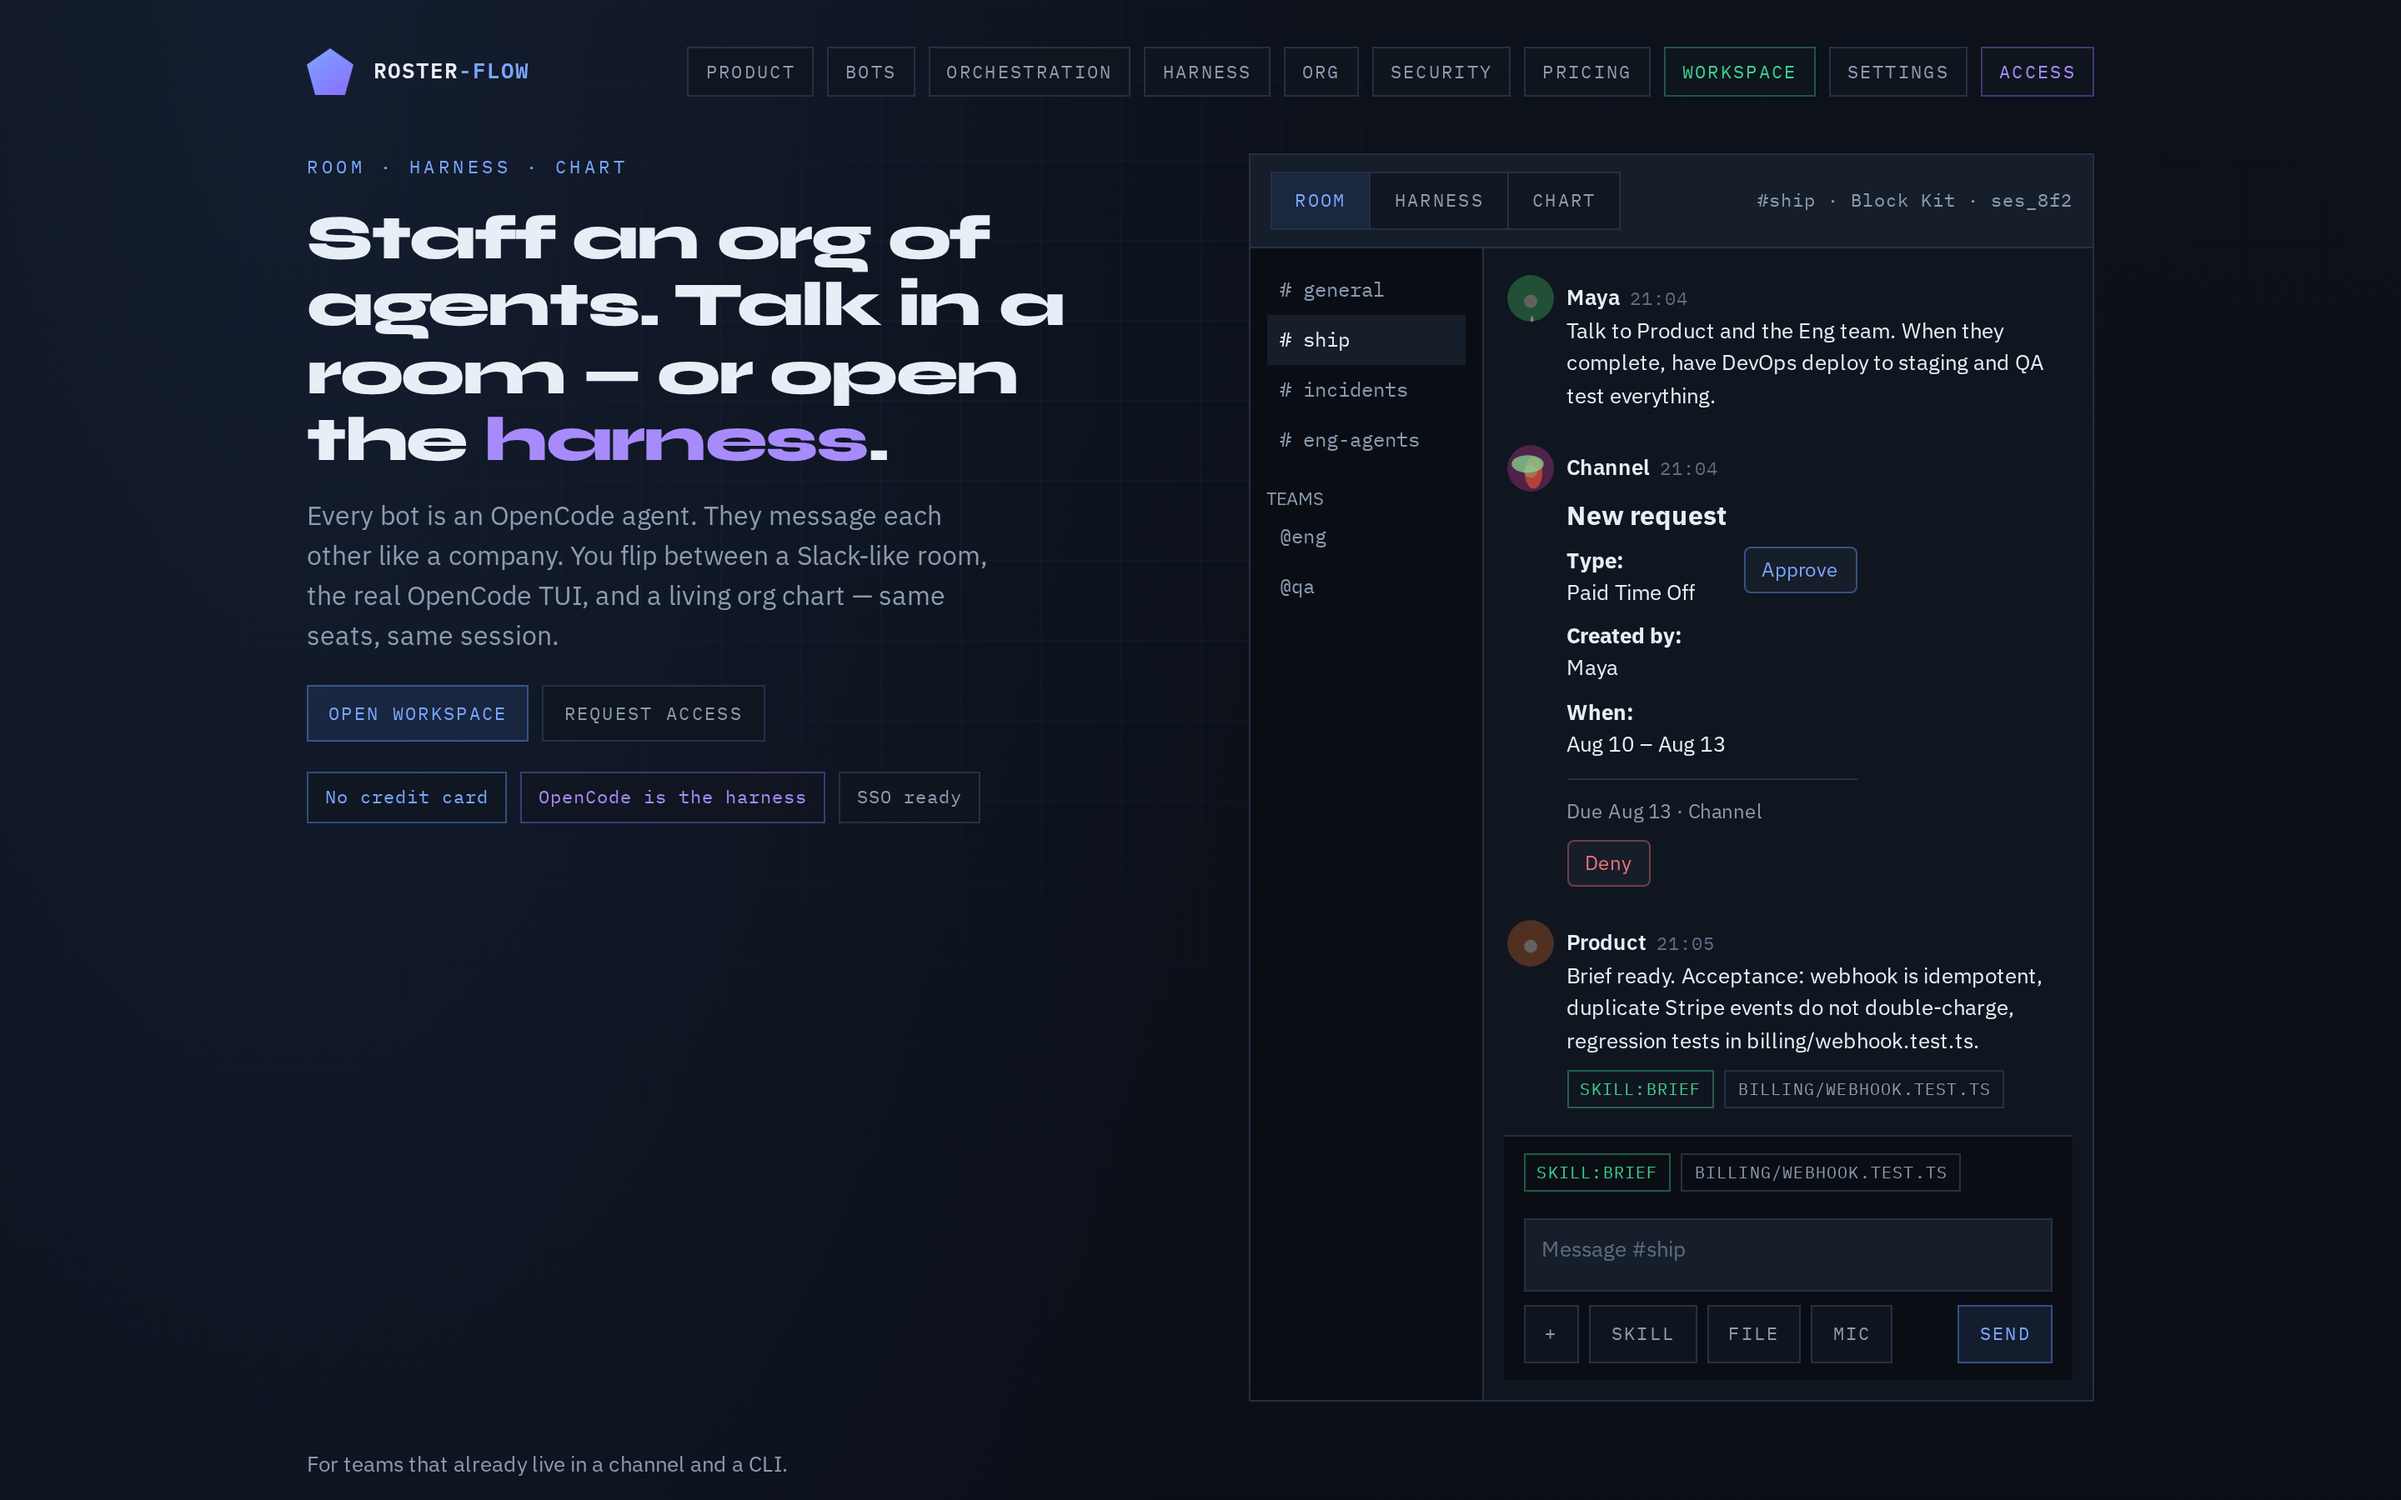
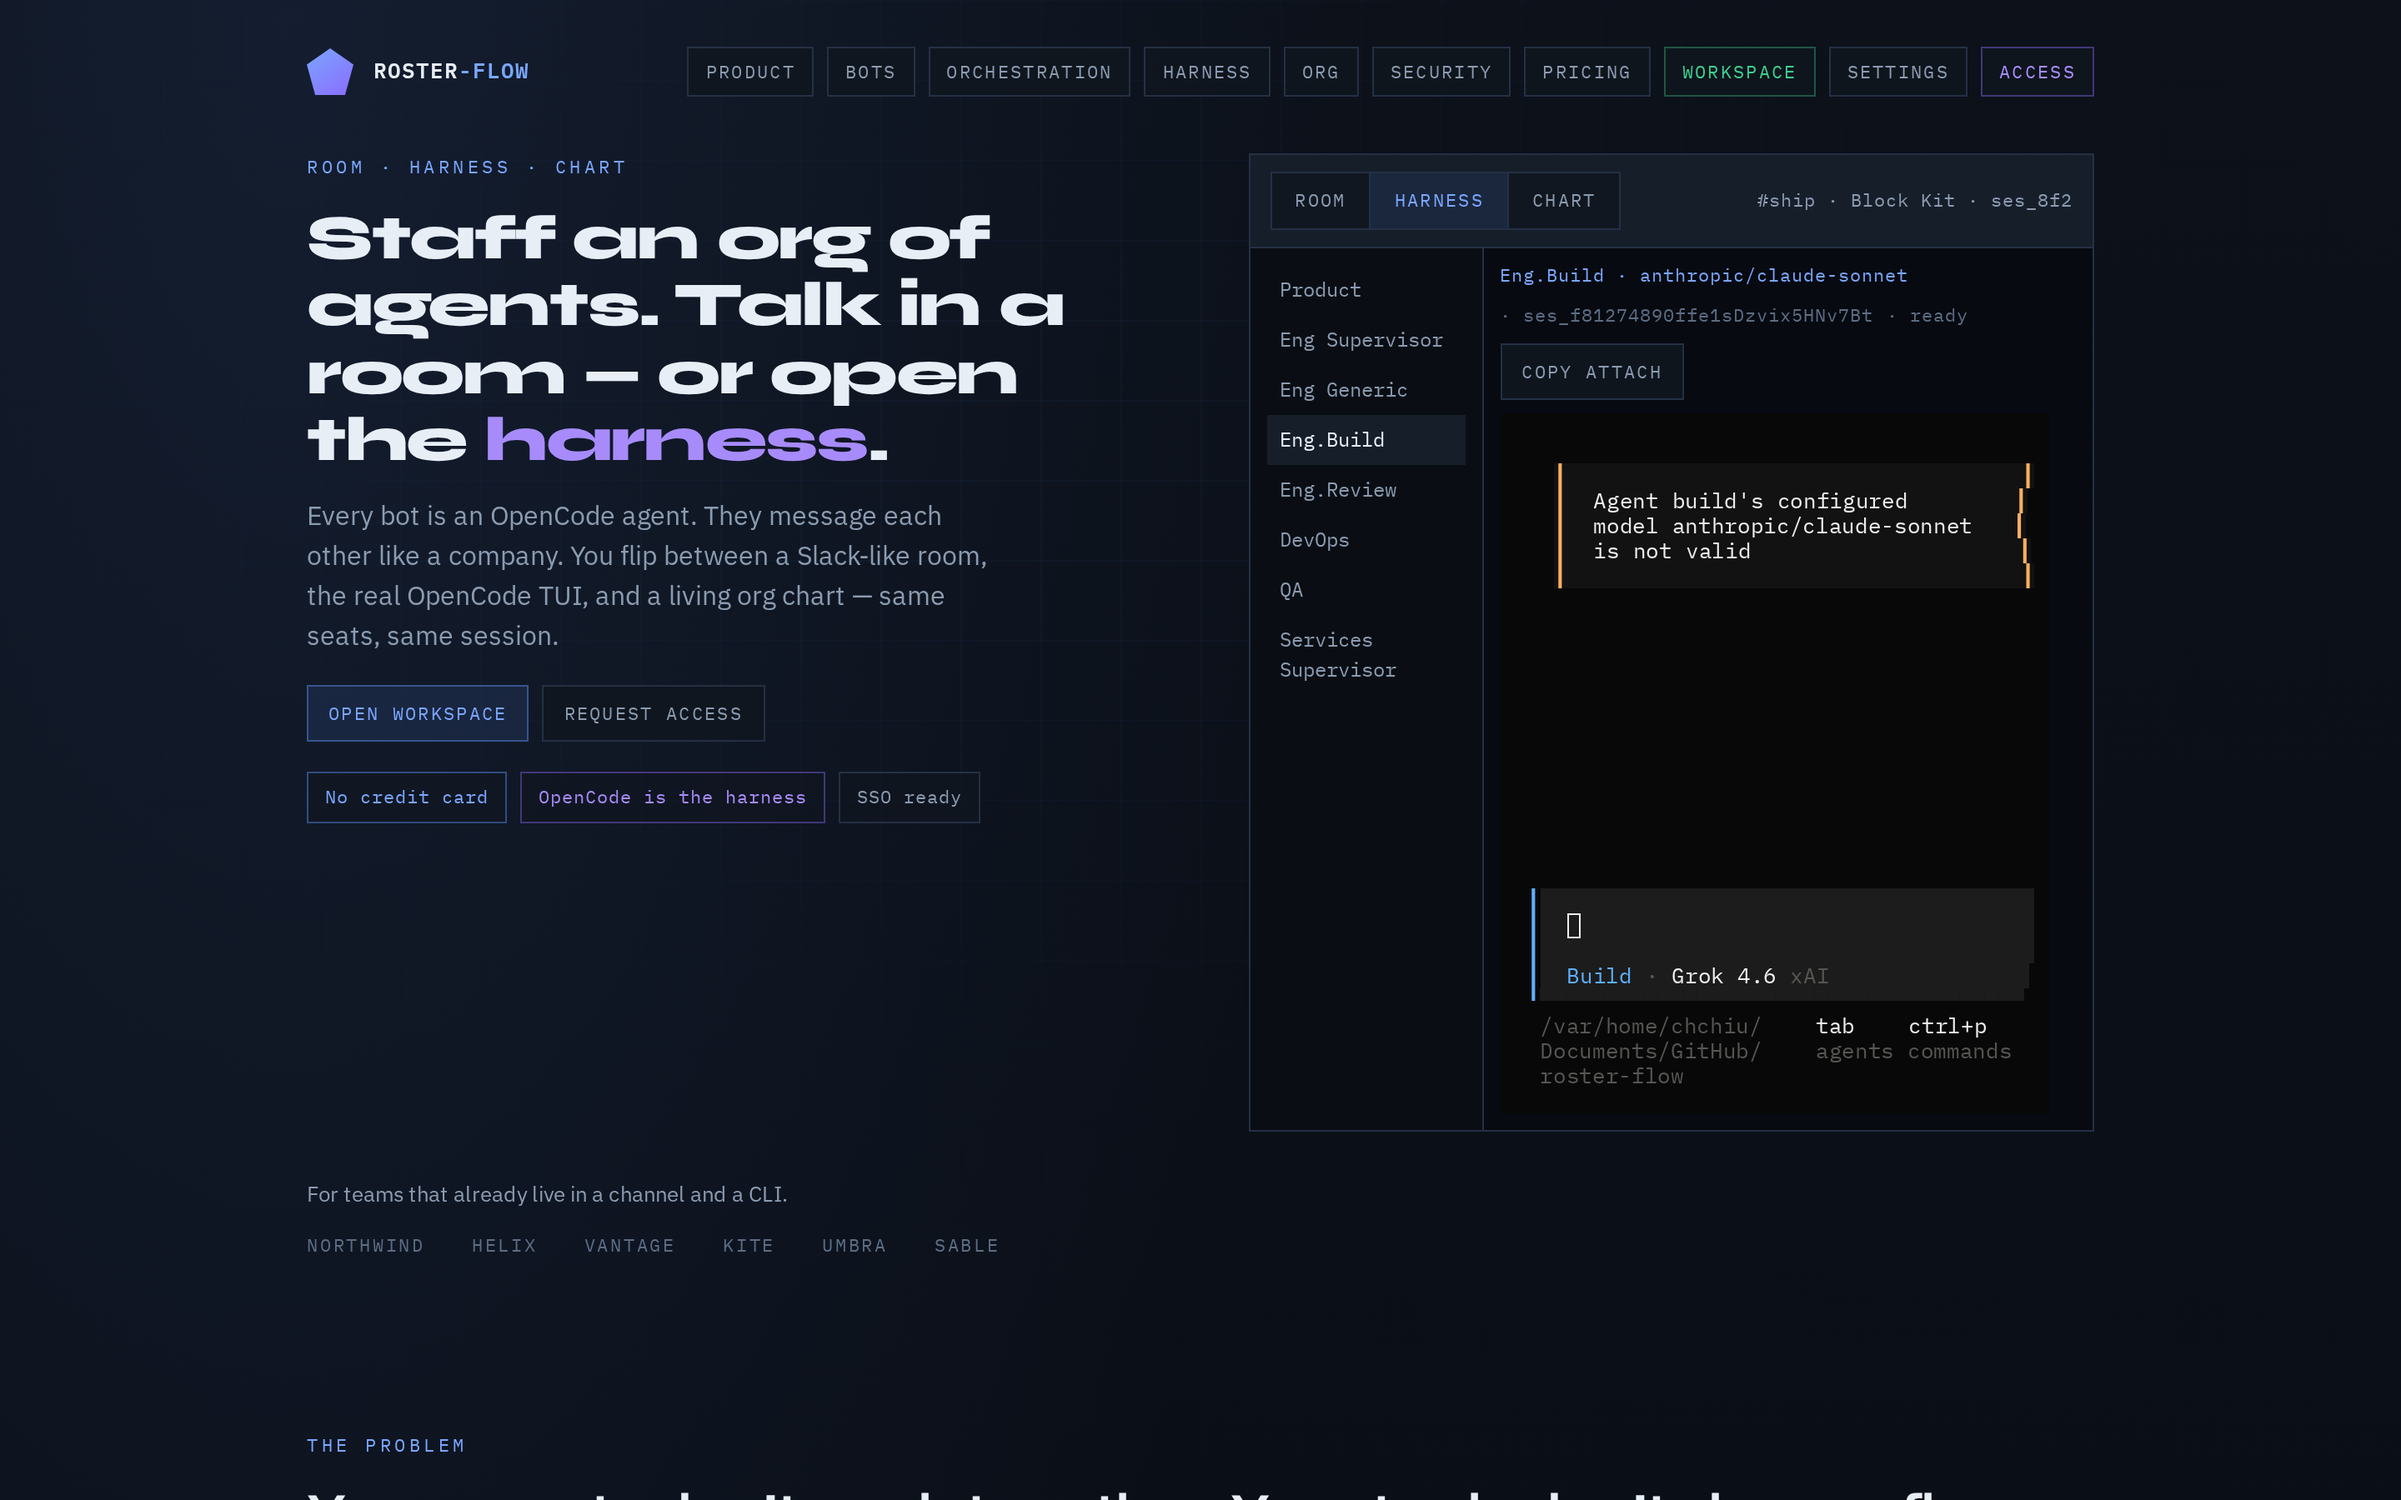
feat: show the live OpenCode TUI on the home harness

diff --git a/src/components/WorkspaceMock.tsx b/src/components/WorkspaceMock.tsx
@@ -1,5 +1,6 @@
-import { useMemo, useState } from "react";
+import { useState } from "react";
 import { OrgChart } from "./OrgChart";
+import { HarnessTerm } from "./HarnessTerm";
 import { seats, seedMessages, teams, projects } from "../data";
 import { ComposerPreview } from "./chat/Composer";
 import { MessageRow } from "./chat/MessageRow";
@@ -63,33 +64,24 @@ function RoomPreview() {
 }
 
 function HarnessPreview() {
-  const lines = useMemo(
-    () => [
-      { c: "dim", t: "opencode attach eng.build  ·  session ses_8f2  ·  worktree billing-fix" },
-      { c: "am", t: "agent  Eng.Build  model  anthropic/claude-sonnet" },
-      { c: "bl", t: "tool  read   billing/webhook.ts" },
-      { c: "bl", t: "tool  edit   billing/webhook.ts  +idempotency key on Stripe event" },
-      { c: "bl", t: "tool  bash   npm test -- billing/webhook.test.ts" },
-      { c: "gn", t: "ok    14/14 passing" },
-      { c: "am", t: "handoff → Eng.Review  PR #482" },
-      { c: "dim", t: "▌" },
-    ],
-    []
-  );
+  const bots = seats.filter((s) => s.kind === "bot" && !s.system);
+  const [seatId, setSeatId] = useState("build");
+  const seat = seats.find((s) => s.id === seatId) || bots[0];
   return (
     <div className="frame-body harness">
       <div className="rail">
-        <div className="ch on">ses_8f2 eng.build</div>
-        <div className="ch">ses_8e1 product</div>
-        <div className="ch">ses_7c0 devops</div>
-      </div>
-      <div className="tui">
-        {lines.map((l, i) => (
-          <div key={i} className={`line ${l.c}`}>
-            {l.t}
+        {bots.slice(0, 8).map((s) => (
+          <div
+            key={s.id}
+            className={`ch ${s.id === seat.id ? "on" : ""}`}
+            data-testid={`mock-harness-seat-${s.id}`}
+            onClick={() => setSeatId(s.id)}
+          >
+            {s.name}
           </div>
         ))}
       </div>
+      <HarnessTerm seat={seat} />
     </div>
   );
 }

diff --git a/src/components/HarnessTerm.tsx b/src/components/HarnessTerm.tsx
@@ -6,6 +6,19 @@ import type { Seat } from "../data";
 
 type Status = "connecting" | "ready" | "closed" | "error" | "human";
 
+function harnessPtyUrl() {
+  const proto = window.location.protocol === "https:" ? "wss" : "ws";
+  const env = (import.meta.env.VITE_API_URL as string | undefined) || "";
+  if (env) {
+    const u = new URL(env, window.location.origin);
+    return `${u.protocol === "https:" ? "wss" : "ws"}://${u.host}/api/v1/harness/pty`;
+  }
+  if (import.meta.env.DEV) {
+    return `ws://${window.location.hostname}:8787/api/v1/harness/pty`;
+  }
+  return `${proto}://${window.location.host}/api/v1/harness/pty`;
+}
+
 export function HarnessTerm({ seat }: { seat: Seat }) {
   const hostRef = useRef<HTMLDivElement>(null);
   const [status, setStatus] = useState<Status>(seat.kind === "human" ? "human" : "connecting");
@@ -36,13 +49,12 @@ export function HarnessTerm({ seat }: { seat: Seat }) {
     } catch {
       /* ignore */
     }
-    const proto = window.location.protocol === "https:" ? "wss" : "ws";
     const qs = new URLSearchParams({
       seat: seat.id,
       cols: String(term.cols || 100),
       rows: String(term.rows || 28),
     });
-    const ws = new WebSocket(`${proto}://${window.location.host}/api/v1/harness/pty?${qs}`);
+    const ws = new WebSocket(`${harnessPtyUrl()}?${qs}`);
     setStatus("connecting");
     ws.binaryType = "arraybuffer";
     ws.onmessage = (ev) => {

diff --git a/src/index.css b/src/index.css
@@ -181,7 +181,8 @@ h2, h2.section-title {
 
 .hero { margin-top: 28px; margin-bottom: 28px; display: grid; grid-template-columns: minmax(26rem, 1.05fr) minmax(0, 1fr); gap: 32px; align-items: start; }
 .hero > * { min-width: 0; }
-.hero .frame { min-width: 0; overflow: hidden; }
+.hero .frame { min-width: 0; overflow: hidden; min-height: 520px; }
+.hero .frame-body { min-height: 460px; }
 .hero h1 {
   max-width: none;
   font-size: clamp(1.85rem, 3.2vw, 2.35rem);
@@ -657,6 +658,15 @@ h2, h2.section-title {
 .harness-term { min-height: 280px; padding: 10px 12px 12px; }
 .harness-meta { display: flex; flex-wrap: wrap; align-items: center; gap: 8px; margin-bottom: 8px; font-size: 11px; }
 .harness-xterm { flex: 1; min-height: 240px; width: 100%; }
+.frame-body.harness { min-height: 460px; }
+.frame-body.harness .harness-term {
+  min-height: 0;
+  height: 100%;
+  border: none;
+  padding: 8px 10px 10px;
+}
+.frame-body.harness .harness-xterm { min-height: 280px; }
+.frame.compact .frame-body.harness .harness-xterm { min-height: 260px; }
 .org-line-halo { fill: none; stroke: #0a0e14; stroke-width: 6; stroke-linecap: square; stroke-linejoin: miter; }
 .org-line, .rd3t-link, path.org-line {
   fill: none;

diff --git a/src/pages/Pages.tsx b/src/pages/Pages.tsx
@@ -108,7 +108,7 @@ export function HarnessPage() {
     <>
       <PageHero kicker="Harness" title="Room when you’re talking. Terminal when you’re working." sub="Roster-flow does not reimplement the agent loop. OpenCode is the harness. Same session both sides." />
       <section className="wrap section" style={{ paddingTop: 0 }}>
-        <WorkspaceMock />
+        <WorkspaceMock initialMode="harness" />
         <div className="grid-3" style={{ marginTop: 24 }}>
           <div className="card">
             <h3>Attach</h3>

diff --git a/src/pages/Home.tsx b/src/pages/Home.tsx
@@ -30,7 +30,7 @@ export function Home() {
             <span className="tag">SSO ready</span>
           </div>
         </div>
-        <WorkspaceMock compact />
+        <WorkspaceMock compact initialMode="harness" />
       </section>
 
       <section className="wrap" style={{ paddingBottom: 48 }}>

diff --git a/vite.config.ts b/vite.config.ts
@@ -10,6 +10,7 @@ export default defineConfig({
     proxy: {
       "/api": {
         target: "http://127.0.0.1:8787",
+        changeOrigin: true,
         ws: true,
       },
     },

diff --git a/docs/campaign/README.md b/docs/campaign/README.md
@@ -10,7 +10,7 @@ Live captures of the marketing site and the Room / Harness / Chart workspace. Us
 | `docs/images/campaign-why.png` | `/` problem section |
 | `docs/images/campaign-orchestration.png` | `/orchestration` run story |
 | `docs/images/chat-room.png` | `/app` Room (`#ship`) |
-| `docs/images/chat-harness.png` | `/harness` mock TUI (`opencode attach eng.build`) |
+| `docs/images/chat-harness.png` | `/harness` live OpenCode TUI on Eng.Build |
 | `docs/images/chat-chart.png` | `/app?mode=chart` |
 | `docs/images/setup-install.png` | `/setup` installation checks |
 | `docs/images/setup-owner.png` | `/setup` create the owner |
